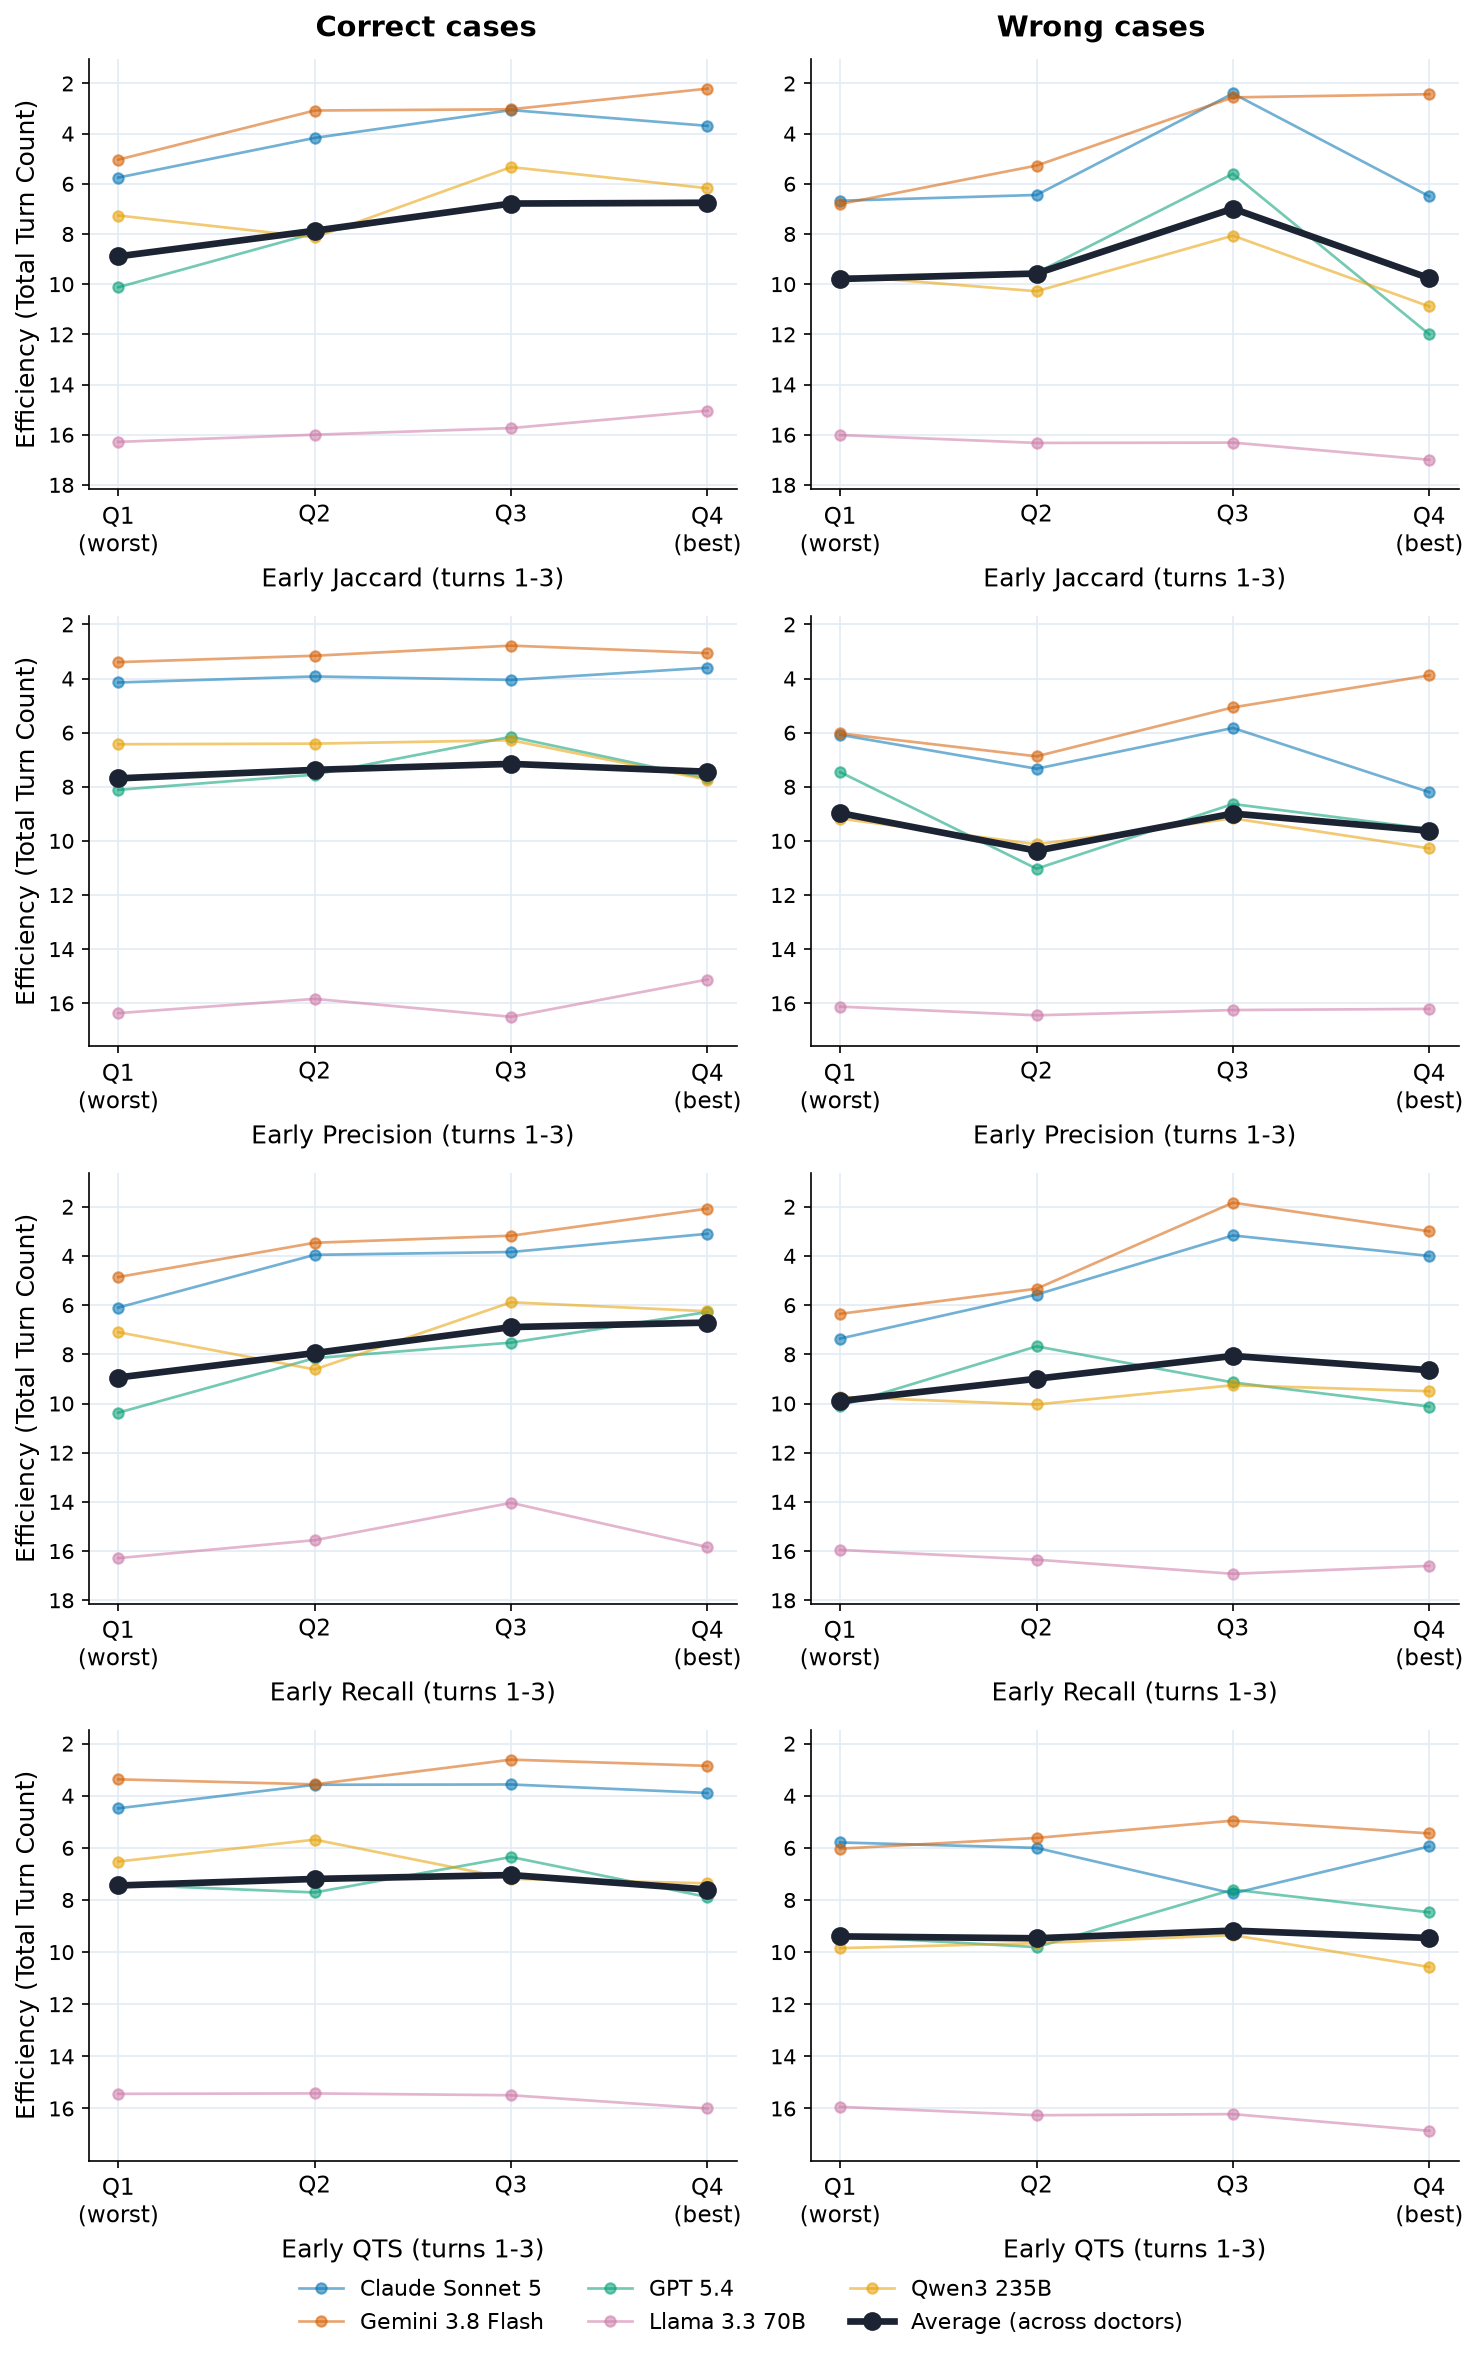
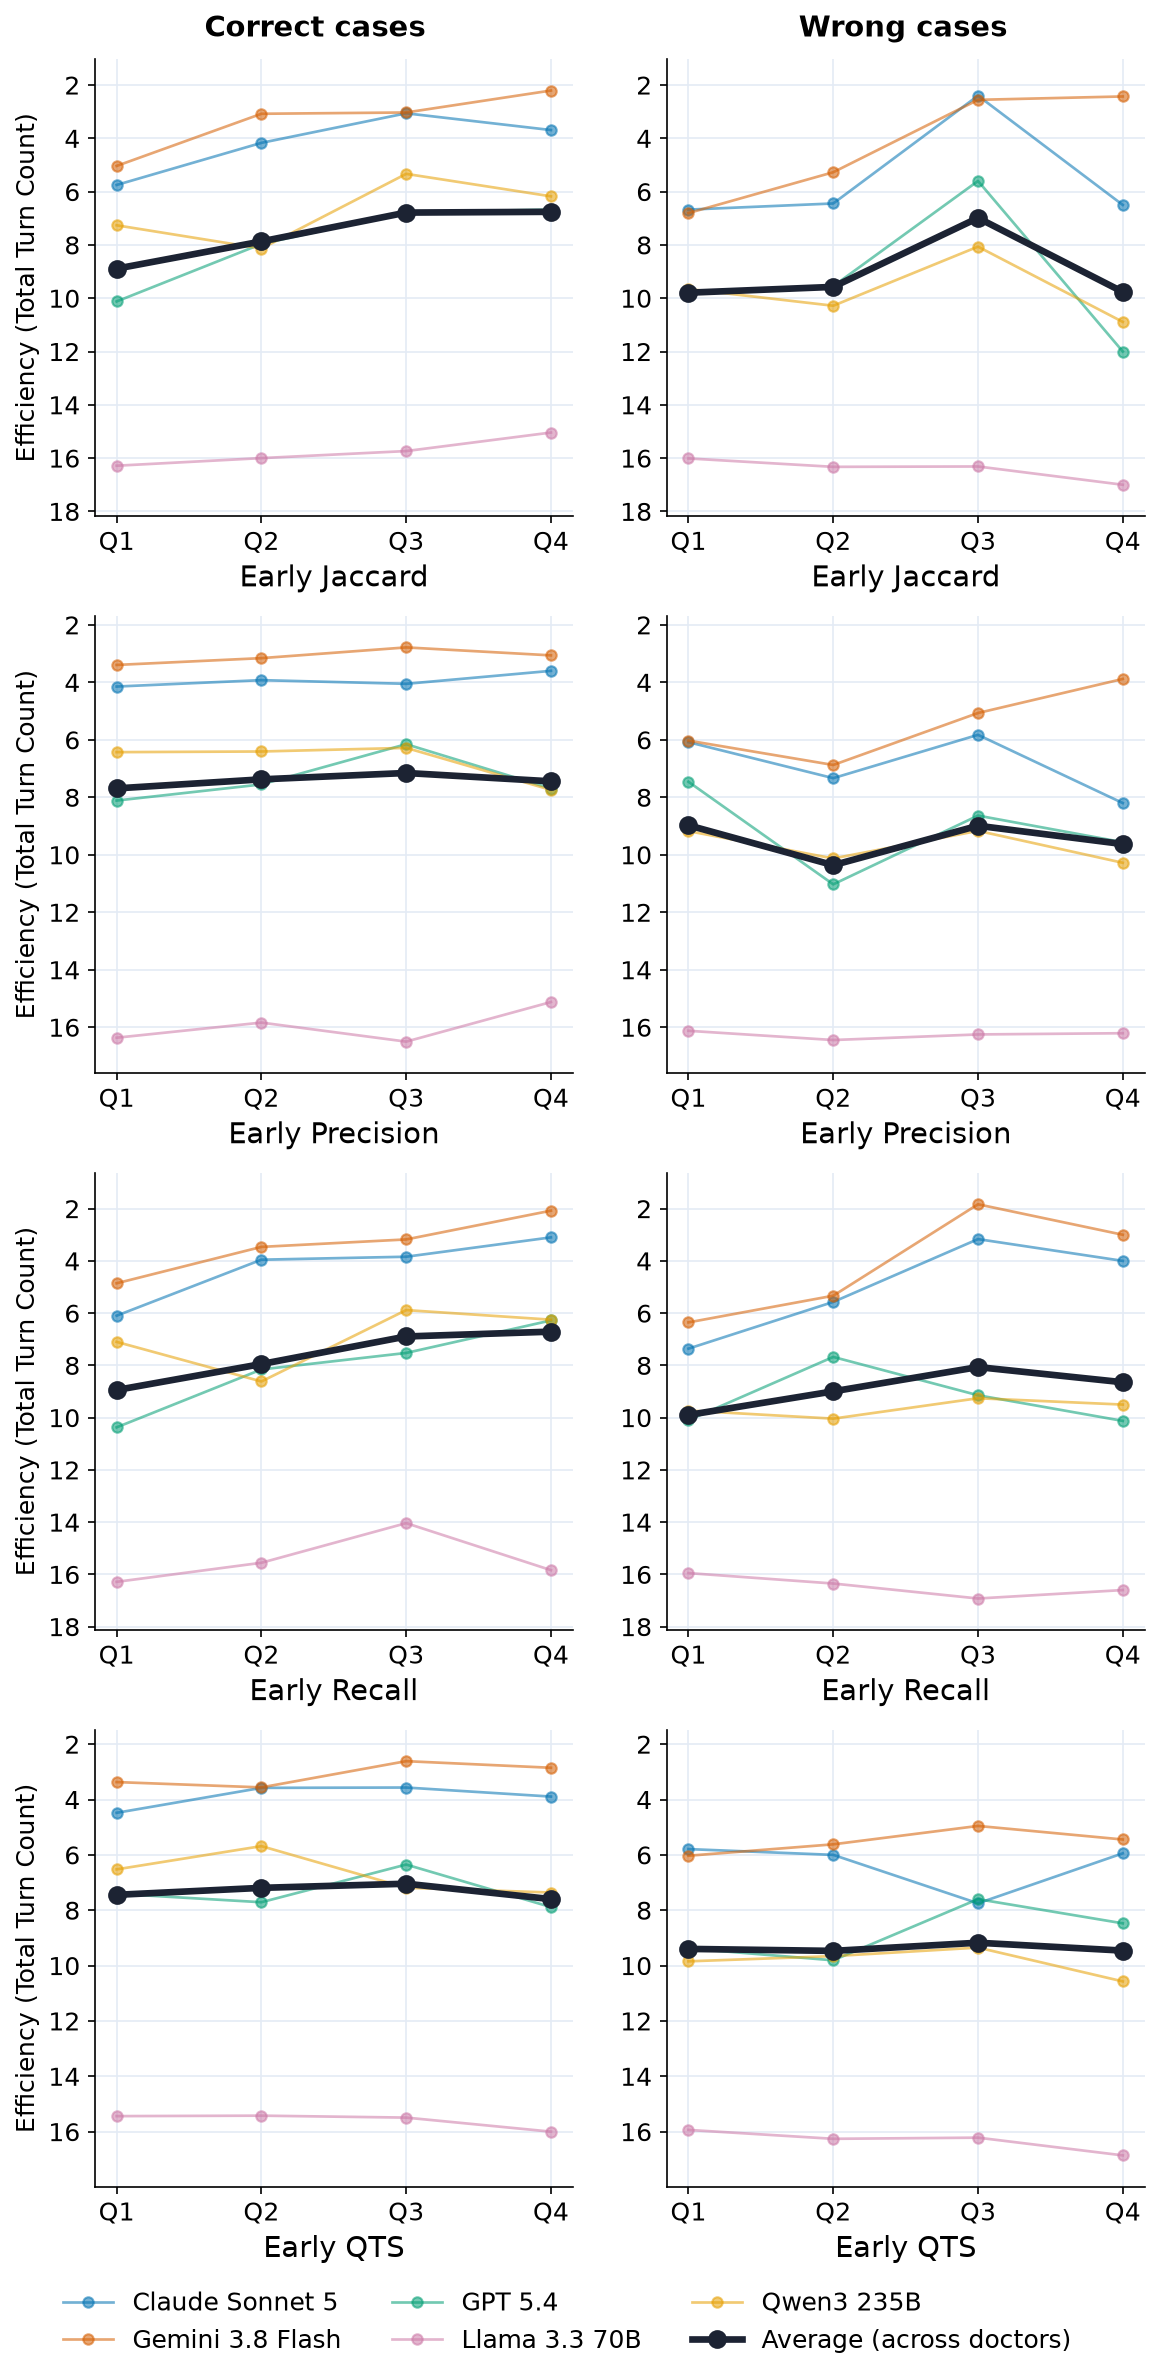
minor changes: fig size

diff --git a/reporting/plot_early_turn_quality_vs_efficiency.py b/reporting/plot_early_turn_quality_vs_efficiency.py
@@ -50,10 +50,10 @@ EARLY_N = 3
 PALETTE = ["#0072B2", "#D55E00", "#009E73", "#CC79A7", "#E69F00"]
 
 METRICS = [
-    ("early_jaccard", "Early Jaccard (turns 1-3)"),
-    ("early_precision", "Early Precision (turns 1-3)"),
-    ("early_recall", "Early Recall (turns 1-3)"),
-    ("early_qts", "Early QTS (turns 1-3)"),
+    ("early_jaccard", "Early Jaccard"),
+    ("early_precision", "Early Precision"),
+    ("early_recall", "Early Recall"),
+    ("early_qts", "Early QTS"),
 ]
 
 
@@ -180,7 +180,7 @@ def draw(all_rows: list[dict], correct_rows: list[dict], wrong_rows: list[dict],
     doctors = sorted({r["doctor"] for r in all_rows})
     x = np.arange(1, 5)
 
-    fig, axes = plt.subplots(len(metrics), 2, figsize=(10, 3.75 * len(metrics)))
+    fig, axes = plt.subplots(len(metrics), 2, figsize=(8, 3.75 * len(metrics)))
     if len(metrics) == 1:
         axes = axes.reshape(1, 2)
 
@@ -212,24 +212,25 @@ def draw(all_rows: list[dict], correct_rows: list[dict], wrong_rows: list[dict],
                            marker="o", markersize=8, zorder=5, label="Average (across doctors)")
 
             ax.set_xticks(x)
-            ax.set_xticklabels(["Q1\n(worst)", "Q2", "Q3", "Q4\n(best)"], fontsize=11)
+            ax.set_xticklabels(["Q1", "Q2", "Q3", "Q4"], fontsize=12)
             ax.set_ylim(ylim)
             ax.invert_yaxis()
+            ax.tick_params(axis="y", labelsize=12)
             ax.grid(color="#E4EBF5", linewidth=0.8, zorder=0)
             ax.spines[["top", "right"]].set_visible(False)
             if col_i == 0:
                 ax.set_ylabel("Efficiency (Total Turn Count)", fontsize=12)
-            ax.set_xlabel(label, fontsize=12)
+            ax.set_xlabel(label, fontsize=14)
 
     fig.text(0.29, 1.0, "Correct cases", ha="center", fontsize=14, fontweight="bold")
-    fig.text(0.74, 1.0, "Wrong cases", ha="center", fontsize=14, fontweight="bold")
+    fig.text(0.78, 1.0, "Wrong cases", ha="center", fontsize=14, fontweight="bold")
 
     handles, labels = axes[0, 0].get_legend_handles_labels()
     # bbox_to_anchor is in figure-fraction units, so a fixed offset shrinks in
     # absolute terms as the figure gets shorter (fewer metric rows) — scale it
     # by the reference (4-row) figure's proportions to keep the same gap.
-    legend_y = -0.03 * (4 / len(metrics))
-    fig.legend(handles, labels, loc="lower center", ncol=3, fontsize=10.5, frameon=False,
+    legend_y = -0.035 * (4 / len(metrics))
+    fig.legend(handles, labels, loc="lower center", ncol=3, fontsize=12, frameon=False,
                bbox_to_anchor=(0.5, legend_y))
     fig.tight_layout()
     fig.savefig(out_path, dpi=150, bbox_inches="tight")
